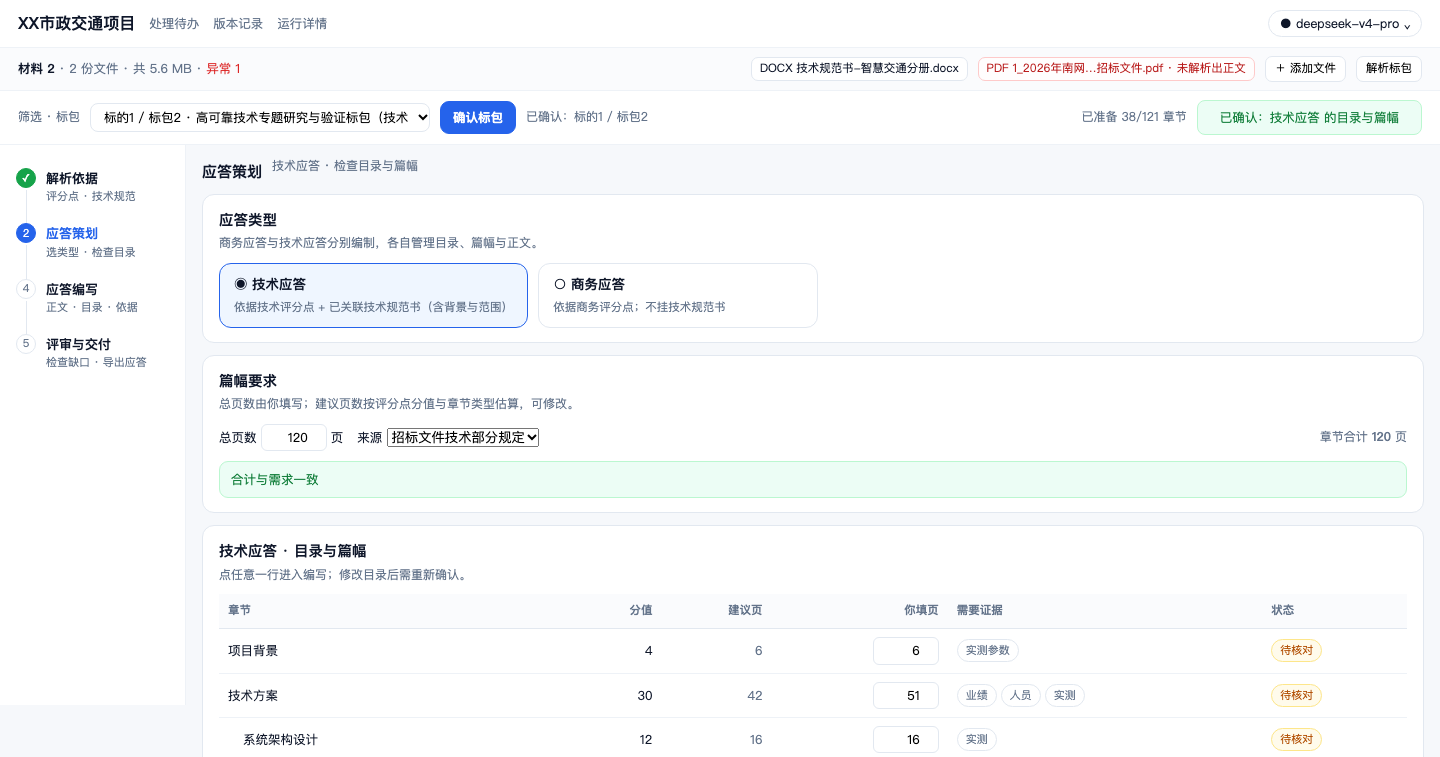
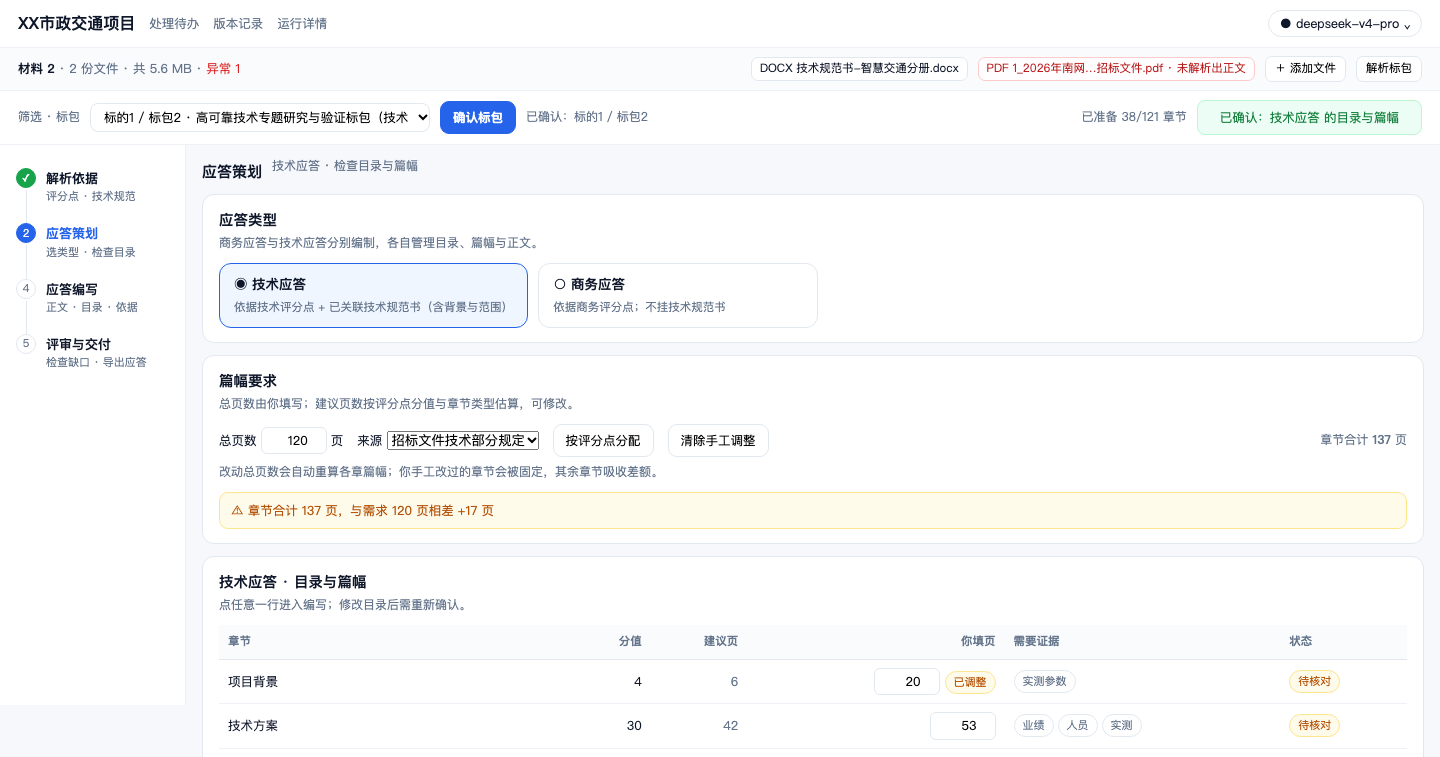
feat(design): 篇幅按总页数自动分配到各章（用户要求：不能一章一章手工填）
用户要求：改完总篇幅要求后，要按它对应答目录的各章自动分配，不能让用户逐章手工填。

## 原型里的做法
- 改总页数 → **自动**按「评分点分值 × 章节类型系数」分配到各章，**合计精确等于总页数**
  （最大余额法：先取整，再按小数部分补齐/扣减，保证不差页）
- 手工改过某章 → 该章**固定**并显示「已调整」，其余章节吸收差额
- 两个明确动作：
  · **按评分点分配** = 尊重手工固定，只把剩余额度分配出去
  · **清除手工调整** = 清除全部固定，按总页数整体重算
- 切换应答类型 → 按该类型的总页数重新分配一次
- 「建议页数」列改为算法产出的参考值，不再是用户要维护的输入
- 首屏即按算法分配（页面上的数字来自算法，不是写死的演示值）

## 实测
```
手工改 t1=20、t4=20 → 合计 129、两章标记「已调整」
按评分点分配        → 合计 120、t1/t4 仍 20、提示「已把剩余额度按分值分配到未调整的章节」
清除手工调整        → 合计 120、无固定、t1 回到算法值 3
技术应答 120→150    → 自动重算，合计精确 150
两种应答各自成立：技术 120、商务 30（互不影响）
```

方案文档 §5.2 同步补充自动分配规则。

diff --git a/docs/design/mockups/product-shell-plan-and-write.html b/docs/design/mockups/product-shell-plan-and-write.html
@@ -190,8 +190,11 @@
           <div class="rowline">
             <span>总页数 <input type="number" id="totalPg" value="120" /> 页</span>
             <span>来源 <select id="pgSource"><option>招标文件技术部分规定</option><option>公司标书模板经验值</option></select></span>
+            <button class="btn" id="btnAlloc">按评分点分配</button>
+            <button class="btn" id="btnResetAlloc">清除手工调整</button>
             <span class="sp"></span><span id="sumLine" class="sr-dim"></span>
           </div>
+          <div class="sr-dim" id="allocNote" style="margin-top:6px">改动总页数会自动重算各章篇幅；你手工改过的章节会被固定，其余章节吸收差额。</div>
           <div id="sumBanner" class="banner ok">合计与需求一致</div>
         </div>
         <div class="card">
@@ -380,6 +383,11 @@ const BODY={
   ],
 };
 const plan=()=>PLANS[type];
+// 章节类型系数：同类章节按分值分配后，再乘以该系数做微调（可解释、可改）
+const KIND = {'项目背景':0.6,'项目建设范围':0.8,'技术方案':1.4,'系统架构设计':1.3,'关键技术实现':1.2,
+  '项目管理方案':1.0,'服务承诺':0.8,'商务投标文件质量':0.9,'商务响应与偏差':0.9,
+  '财务状况（营业净利率）':1.0,'管理体系认证':0.7,'人员要求':0.8,'服务质量要求':0.8,'项目目标':0.7};
+const kindOf = c => KIND[c.name] || 1.0;
 const ch=id=>plan().chapters.find(x=>x.id===id)||plan().chapters[0];
 const needOf=c=>c.done?Math.max(0,Math.round((c.mine-c.done)*WPP)):c.mine*WPP;
 const pill=(c,t)=>`<span class="pill ${c}">${t}</span>`;
@@ -393,8 +401,30 @@ function renderTypes(){
     document.getElementById('totalPg').value=plan().total;
     document.getElementById('pgSource').value=plan().source;
     document.getElementById('flash').textContent='当前应答：'+plan().label;
-    renderAll();
+    renderAll(); allocate(true);
   }));
+}
+function allocate(resetPinned){
+  const list = plan().chapters.filter(c=>!c.sep);
+  if (resetPinned) list.forEach(c=>{ c.pinned=false; });
+  const total = Number(document.getElementById('totalPg').value||0);
+  const pinned = list.filter(c=>c.pinned);
+  const free = list.filter(c=>!c.pinned);
+  const pinnedSum = pinned.reduce((n,c)=>n+(c.mine||0),0);
+  const rest = Math.max(0, total - pinnedSum);
+  const w = free.map(c=>Math.max(0.1, (Number(c.score)||0) * kindOf(c)));
+  const wSum = w.reduce((a,b)=>a+b,0) || 1;
+  const exact = w.map(x=>rest*x/wSum);
+  const fl = exact.map(Math.floor);
+  let left = rest - fl.reduce((a,b)=>a+b,0);
+  // 余额按小数部分从大到小补 1
+  const order = exact.map((x,i)=>({i, frac:x-Math.floor(x)})).sort((a,b)=>b.frac-a.frac);
+  for (let k=0;k<order.length && left>0;k++){ fl[order[k].i]++; left--; }
+  // 余额为负（固定值已超总额）时，从最小的章节扣
+  for (let k=order.length-1;k>=0 && left<0;k--){ if(fl[order[k].i]>1){ fl[order[k].i]--; left++; } }
+  free.forEach((c,i)=>{ c.mine = fl[i]; });
+  plan().total = total;
+  renderPlanTable(); renderSum();
 }
 function renderPlanTable(){
   document.getElementById('planRows').innerHTML=plan().chapters.map(c=>{
@@ -403,7 +433,7 @@ function renderPlanTable(){
     const need=c.need.filter(n=>n!=='—');
     return `<tr data-ch="${c.id}"><td class="${c.sub?'ind':''}">${c.name}</td><td class="num">${c.score}</td>
       <td class="num" style="color:#64748b">${c.sug}</td>
-      <td class="num"><input type="number" value="${c.mine}" data-mine="${c.id}" /></td>
+      <td class="num"><input type="number" value="${c.mine}" data-mine="${c.id}" />${c.pinned?'<span class="pill warn" style="margin-left:5px">已调整</span>':''}</td>
       <td>${need.length?need.map(n=>`<span class="pill idle" style="margin-right:4px">${n}</span>`).join(''):'—'}</td>
       <td>${st}</td></tr>`;
   }).join('');
@@ -411,7 +441,11 @@ function renderPlanTable(){
   document.getElementById('gapCount').textContent=plan().chapters.reduce((n,c)=>n+(c.gaps||0),0);
   document.querySelectorAll('[data-mine]').forEach(inp=>{
     inp.addEventListener('click',e=>e.stopPropagation());
-    inp.addEventListener('change',()=>{ch(inp.dataset.mine).mine=Number(inp.value)||0;renderPlanTable();renderSum();});
+    inp.addEventListener('change',()=>{
+      const c=ch(inp.dataset.mine);
+      c.mine=Number(inp.value)||0; c.pinned=true;      // 手工改过的行固定住，不再被自动分配覆盖
+      renderPlanTable(); renderSum();
+    });
   });
   document.querySelectorAll('tr[data-ch]').forEach(tr=>tr.addEventListener('click',()=>{
     cur=tr.dataset.ch; p4tab='writing'; showStage('4'); renderAll();
@@ -425,7 +459,19 @@ function renderSum(){
   if(mine===total){b.className='banner ok';b.textContent='合计与需求一致';}
   else{b.className='banner warn';b.textContent=`⚠ 章节合计 ${mine} 页，与需求 ${total} 页相差 ${mine-total>0?'+':''}${mine-total} 页`;}
 }
-document.getElementById('totalPg').addEventListener('input',()=>{plan().total=Number(document.getElementById('totalPg').value||0);renderSum();});
+document.getElementById('totalPg').addEventListener('input',()=>{ allocate(false); });
+document.getElementById('btnAlloc').addEventListener('click',()=>{
+  allocate(false);   // 尊重手工改过的章节，只把剩余额度分配出去
+  const n=plan().chapters.filter(c=>!c.sep).length;
+  const p2=plan().chapters.filter(c=>!c.sep&&c.pinned).length;
+  document.getElementById('allocNote').textContent = p2
+    ? `已把剩余额度按分值分配到未调整的章节；你手工改过的 ${p2} 章保持不动。`
+    : `已按「评分点分值 × 章节类型」把 ${plan().total} 页分配到 ${n} 个章节。`;
+});
+document.getElementById('btnResetAlloc').addEventListener('click',()=>{
+  allocate(true);    // 清除全部手工调整，按总分值重新分配
+  document.getElementById('allocNote').textContent='已清除手工调整，按总页数重新分配到全部章节。';
+});
 document.getElementById('pgSource').addEventListener('change',e=>{plan().source=e.target.value;});
 document.getElementById('btnConfirm').addEventListener('click',()=>{
   const total=Number(document.getElementById('totalPg').value||0);
@@ -572,7 +618,7 @@ document.querySelectorAll('[data-jump]').forEach(b=>b.addEventListener('click',(
   cur=b.dataset.jump; p4tab='writing'; renderSubtabs(); renderP4(); renderTree(); renderEditor(); renderAside('basis');
 }));
 function renderAll(){renderTypes();renderPlanTable();renderSum();renderSubtabs();renderP4();renderTree();renderEditor();renderAside('basis');renderDir();}
-showStage('2'); renderAll();
+showStage('2'); renderAll(); allocate(true);
 </script>
 </body>
 </html>

diff --git a/docs/design/应答策划与编写-整体方案.md b/docs/design/应答策划与编写-整体方案.md
@@ -139,7 +139,14 @@
 ### 5.2 篇幅与证据（与目录同表）
 
 - **总页数**：用户填；系统**不猜**。来源可标注（招标文件硬性规定 / 公司模板经验值）。
-- **建议页数**：`分值 × 类型系数`，**可解释、可手改**；不满意度不隐藏。
+- **自动分配（用户明确要求：不能让用户一章一章手工填）**：
+  - 改完总页数 → **自动**按 `评分点分值 × 章节类型系数` 分配到各章，**合计精确等于总页数**
+    （最大余额法：先取整，再按小数部分补齐/扣减，保证不差页）
+  - 手工改过某一章 → 该章**固定**（显示「已调整」），其余章节吸收差额
+  - 两个明确动作：「**按评分点分配**」＝尊重手工固定，只分配剩余额度；
+    「**清除手工调整**」＝全部重算
+  - 切换应答类型 → 按该类型总页数重新分配一次
+- **建议页数**：算法产出的可解释参考值（分值 × 类型系数），不再是需要用户维护的输入。
 - **点对点部分**：单独分区，**按原文体量给区间**，不参与分值分摊（否则 68 章吃掉总额）。
 - **需要证据**：每章列出所需证据类型（业绩/资质/人员/实测/背景）；与已核对素材比对得到**缺口**。
 - **校验只在当前类型内**：`章节合计 ↔ 本类型总页数`。
